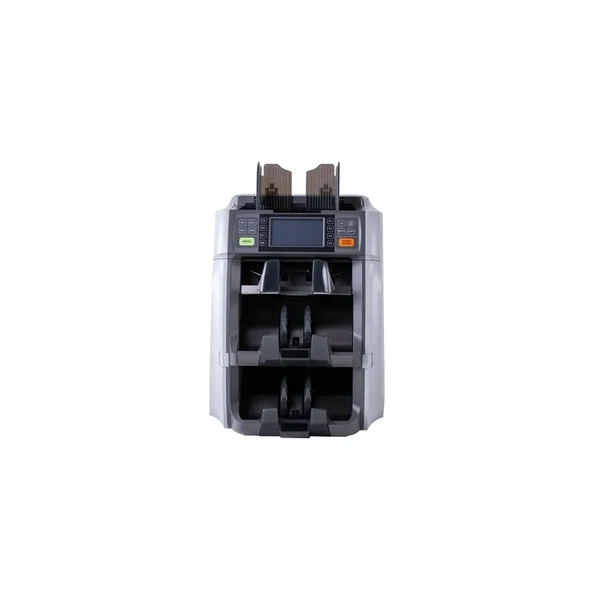
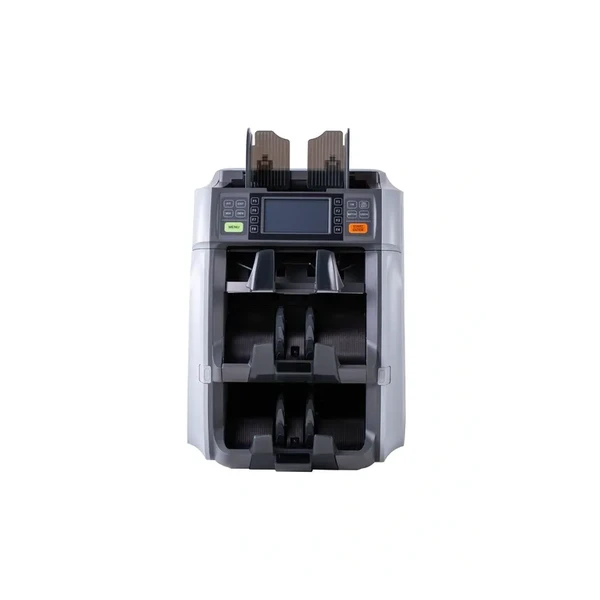
Use isnet-general-use ML model for perfect hero image background removal (no jagged edges, no holes) and bump to hero-v3 to bust cache

Changed region(s): [[0.3, 0.21, 0.69, 0.81]]

diff --git a/src/components/home/HeroPremium.tsx b/src/components/home/HeroPremium.tsx
@@ -12,49 +12,49 @@ import { motion, AnimatePresence } from "framer-motion";
    ──────────────────────────────────────────────── */
 const HERO_PRODUCTS = [
   {
-    src: "/uploads/products/amc-cm3400/hero-v2.webp",
+    src: "/uploads/products/amc-cm3400/hero-v3.webp",
     model: "AMC-CM3400",
     tagline: "Cuenta monedas en minutos, no a mano.",
     scale: "",
   },
   {
-    src: "/uploads/products/amc-3200/hero-v2.webp",
+    src: "/uploads/products/amc-3200/hero-v3.webp",
     model: "AMC-3200",
     tagline: "Conteo profesional, simple y confiable.",
     scale: "",
   },
   {
-    src: "/uploads/products/amc-8100/hero-v2.webp",
+    src: "/uploads/products/amc-8100/hero-v3.webp",
     model: "AMC-8100",
     tagline: "Pantalla Full Touch para contar con precisión.",
     scale: "",
   },
   {
-    src: "/uploads/products/amc-9200/hero-v2.webp",
+    src: "/uploads/products/amc-9200/hero-v3.webp",
     model: "AMC-9200",
     tagline: "Clasificación Full Fitness bancaria.",
     scale: "",
   },
   {
-    src: "/uploads/products/amc-cm3400-max/hero-v2.webp",
+    src: "/uploads/products/amc-cm3400-max/hero-v3.webp",
     model: "AMC-CM3400 MAX",
     tagline: "Más velocidad para grandes cantidades.",
     scale: "",
   },
   {
-    src: "/uploads/products/amc-2000/hero-v2.webp",
+    src: "/uploads/products/amc-2000/hero-v3.webp",
     model: "AMC-2000",
     tagline: "Solución esencial para todo negocio.",
     scale: "",
   },
   {
-    src: "/uploads/products/amc-9100/hero-v2.webp",
+    src: "/uploads/products/amc-9100/hero-v3.webp",
     model: "AMC-9100",
     tagline: "Máxima precisión y seguridad en detección.",
     scale: "",
   },
   {
-    src: "/uploads/products/amc-8200/hero-v2.webp",
+    src: "/uploads/products/amc-8200/hero-v3.webp",
     model: "AMC-8200",
     tagline: "Conteo rápido, continuo y confiable.",
     scale: "",

diff --git a/src/lib/static-data.ts b/src/lib/static-data.ts
@@ -82,7 +82,7 @@ export const STATIC_PRODUCTS = [
     category: { slug: "contadoras-monedas", name: "Contadoras de Monedas" },
     brand: { slug: "amc", name: "AMC" },
     images: [
-      { id: "img-1-1", url: "/uploads/products/amc-cm3400/hero-v2.webp", alt: "AMC-CM3400 vista frontal", isPrimary: true },
+      { id: "img-1-1", url: "/uploads/products/amc-cm3400/hero-v3.webp", alt: "AMC-CM3400 vista frontal", isPrimary: true },
       { id: "img-1-2", url: "/uploads/products/amc-cm3400/img-02.webp?v=6", alt: "AMC-CM3400 vista lateral", isPrimary: false },
       { id: "img-1-3", url: "/uploads/products/amc-cm3400/img-03.webp?v=6", alt: "AMC-CM3400 vista superior", isPrimary: false },
       { id: "img-1-4", url: "/uploads/products/amc-cm3400/img-04.webp?v=6", alt: "AMC-CM3400 detalle pantalla", isPrimary: false },
@@ -113,7 +113,7 @@ export const STATIC_PRODUCTS = [
     category: { slug: "contadoras-monedas", name: "Contadoras de Monedas" },
     brand: { slug: "amc", name: "AMC" },
     images: [
-      { id: "img-2-1", url: "/uploads/products/amc-cm3400-max/hero-v2.webp", alt: "AMC-CM3400 MAX vista frontal", isPrimary: true },
+      { id: "img-2-1", url: "/uploads/products/amc-cm3400-max/hero-v3.webp", alt: "AMC-CM3400 MAX vista frontal", isPrimary: true },
       { id: "img-2-2", url: "/uploads/products/amc-cm3400-max/img-02.webp?v=6", alt: "AMC-CM3400 MAX vista lateral", isPrimary: false },
       { id: "img-2-3", url: "/uploads/products/amc-cm3400-max/img-03.webp?v=6", alt: "AMC-CM3400 MAX vista superior", isPrimary: false },
       { id: "img-2-4", url: "/uploads/products/amc-cm3400-max/img-04.webp?v=6", alt: "AMC-CM3400 MAX detalle", isPrimary: false },
@@ -143,7 +143,7 @@ export const STATIC_PRODUCTS = [
     category: { slug: "linea-esencial", name: "Línea Esencial" },
     brand: { slug: "amc", name: "AMC" },
     images: [
-      { id: "img-3-1", url: "/uploads/products/amc-2000/hero-v2.webp", alt: "AMC-2000 vista frontal", isPrimary: true },
+      { id: "img-3-1", url: "/uploads/products/amc-2000/hero-v3.webp", alt: "AMC-2000 vista frontal", isPrimary: true },
       { id: "img-3-2", url: "/uploads/products/amc-2000/img-02.webp?v=6", alt: "AMC-2000 vista lateral", isPrimary: false },
       { id: "img-3-3", url: "/uploads/products/amc-2000/img-03.webp?v=6", alt: "AMC-2000 detalle", isPrimary: false },
       { id: "img-3-4", url: "/uploads/products/amc-2000/img-04.webp?v=6", alt: "AMC-2000 vista completa", isPrimary: false },
@@ -172,7 +172,7 @@ export const STATIC_PRODUCTS = [
     category: { slug: "contadoras-billetes", name: "Contadoras de Billetes" },
     brand: { slug: "amc", name: "AMC" },
     images: [
-      { id: "img-4-1", url: "/uploads/products/amc-3200/hero-v2.webp", alt: "AMC-3200 2CIS vista frontal", isPrimary: true },
+      { id: "img-4-1", url: "/uploads/products/amc-3200/hero-v3.webp", alt: "AMC-3200 2CIS vista frontal", isPrimary: true },
       { id: "img-4-2", url: "/uploads/products/amc-3200/img-02.webp?v=6", alt: "AMC-3200 2CIS vista lateral", isPrimary: false },
       { id: "img-4-3", url: "/uploads/products/amc-3200/img-03.webp?v=6", alt: "AMC-3200 2CIS detalle pantalla", isPrimary: false },
       { id: "img-4-4", url: "/uploads/products/amc-3200/img-04.webp?v=6", alt: "AMC-3200 2CIS vista completa", isPrimary: false },
@@ -200,7 +200,7 @@ export const STATIC_PRODUCTS = [
     category: { slug: "contadoras-billetes", name: "Contadoras de Billetes" },
     brand: { slug: "amc", name: "AMC" },
     images: [
-      { id: "img-5-1", url: "/uploads/products/amc-8100/hero-v2.webp", alt: "AMC-8100 vista frontal", isPrimary: true },
+      { id: "img-5-1", url: "/uploads/products/amc-8100/hero-v3.webp", alt: "AMC-8100 vista frontal", isPrimary: true },
       { id: "img-5-2", url: "/uploads/products/amc-8100/img-02.webp?v=6", alt: "AMC-8100 vista lateral", isPrimary: false },
       { id: "img-5-3", url: "/uploads/products/amc-8100/img-03.webp?v=6", alt: "AMC-8100 detalle pantalla", isPrimary: false },
       { id: "img-5-4", url: "/uploads/products/amc-8100/img-04.webp?v=6", alt: "AMC-8100 vista completa", isPrimary: false },
@@ -229,7 +229,7 @@ export const STATIC_PRODUCTS = [
     category: { slug: "clasificadoras-billetes", name: "Clasificadoras de Billetes" },
     brand: { slug: "amc", name: "AMC" },
     images: [
-      { id: "img-6-1", url: "/uploads/products/amc-8200/hero-v2.webp", alt: "AMC-8200 vista frontal", isPrimary: true },
+      { id: "img-6-1", url: "/uploads/products/amc-8200/hero-v3.webp", alt: "AMC-8200 vista frontal", isPrimary: true },
       { id: "img-6-2", url: "/uploads/products/amc-8200/img-02.webp?v=6", alt: "AMC-8200 vista lateral", isPrimary: false },
       { id: "img-6-3", url: "/uploads/products/amc-8200/img-03.webp?v=6", alt: "AMC-8200 detalle pantalla", isPrimary: false },
       { id: "img-6-4", url: "/uploads/products/amc-8200/img-04.webp?v=6", alt: "AMC-8200 vista completa", isPrimary: false },
@@ -257,7 +257,7 @@ export const STATIC_PRODUCTS = [
     category: { slug: "clasificadoras-billetes", name: "Clasificadoras de Billetes" },
     brand: { slug: "amc", name: "AMC" },
     images: [
-      { id: "img-8-1", url: "/uploads/products/amc-9200/hero-v2.webp", alt: "AMC-9200 vista frontal", isPrimary: true },
+      { id: "img-8-1", url: "/uploads/products/amc-9200/hero-v3.webp", alt: "AMC-9200 vista frontal", isPrimary: true },
     ],
     videos: [],
     documents: [
@@ -282,7 +282,7 @@ export const STATIC_PRODUCTS = [
     category: { slug: "contadoras-billetes", name: "Contadoras de Billetes" },
     brand: { slug: "amc", name: "AMC" },
     images: [
-      { id: "img-9-1", url: "/uploads/products/amc-9100/hero-v2.webp", alt: "AMC-9100 vista frontal", isPrimary: true },
+      { id: "img-9-1", url: "/uploads/products/amc-9100/hero-v3.webp", alt: "AMC-9100 vista frontal", isPrimary: true },
       { id: "img-9-2", url: "/uploads/products/amc-9100/img-02.webp?v=6", alt: "AMC-9100 vista lateral", isPrimary: false },
     ],
     videos: [